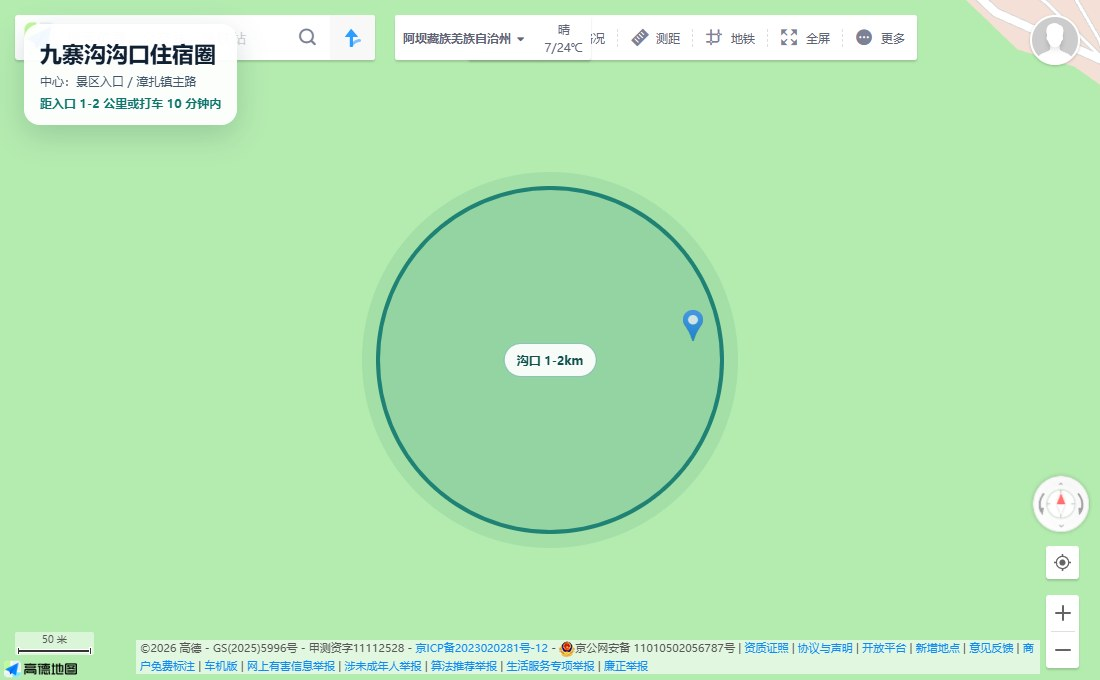
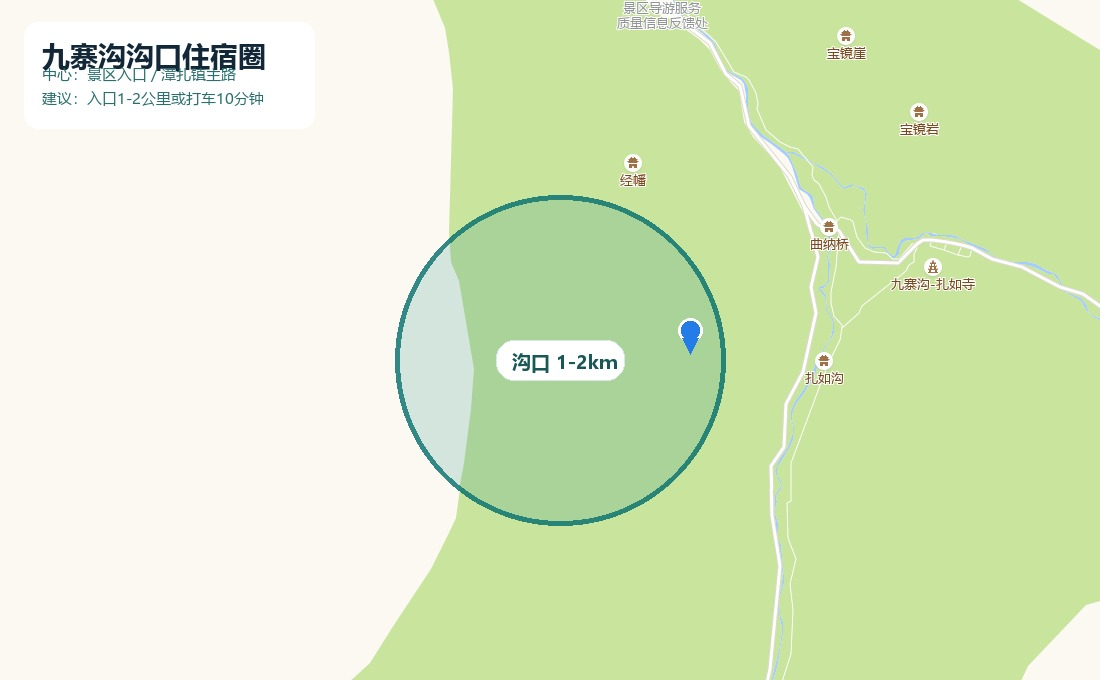
Refine Jiuzhaigou train routing and hotel maps

diff --git a/routes/jiuzhaigou-7days.html b/routes/jiuzhaigou-7days.html
@@ -664,7 +664,7 @@
 }
 .ticket-table {
   display:grid;
-  grid-template-columns:112px 1.2fr 1.1fr 1.1fr 1.05fr 1.15fr 96px 1.35fr;
+  grid-template-columns:92px 1.15fr 1fr 1fr 1fr 1.12fr 78px 1.18fr 1.25fr;
   gap:1px;
   overflow:auto;
   border:1px solid var(--line);
@@ -822,6 +822,7 @@
       <p><b>不吃辣提醒：</b>两条线都默认按清淡、不辣、不红油、不花椒来安排。</p>
     </article>
   </div>
+  <div class="notice"><b>交通结论：</b>如果能买到7月15日或7月16日晚上出发、次日上午到成都东的动卧，这是当前最贴合偏好的方案；如果只能买到普通火车次日傍晚到成都西，就不要硬接原D2黄龙，必须顺延或删减。</div>
 </section>
 
 <section class="wrap" id="arrival-choice">
@@ -896,14 +897,51 @@
     <h3>7月13日—7月17日出发日怎么选？</h3>
     <p class="lead">本表按本次对12306公开查询接口能看到的信息整理；余票会变化，最终以12306付款页为准。早上出发、凌晨出发不优先。</p>
     <div class="ticket-table">
-      <div class="head">日期</div><div class="head">下午/晚上火车</div><div class="head">卧铺/动卧</div><div class="head">到达成都时间</div><div class="head">能否接D2黄龙</div><div class="head">参考价格</div><div class="head">推荐</div><div class="head">备注</div>
-      <div>7月13日</div><div>Z586：广州北约22:41 → 成都西18:42+1</div><div>普通卧铺可重点查；动卧需实时核</div><div>次日傍晚成都西</div><div>不能硬接，需住成都休息</div><div>Z586参考：硬座/无座约201，硬卧约343，软卧约613</div><div>中等</div><div>省钱但慢；九寨沟行程顺延或删减草原线/二进沟</div>
-      <div>7月14日</div><div>Z586同样重点查广州北晚发</div><div>普通卧铺优先；动卧需12306实时核</div><div>次日傍晚成都西</div><div>不能硬接，需住成都休息</div><div>同车次价格通常相近，以付款页为准</div><div>中等</div><div>适合不赶第一天景区、愿意车上睡的人</div>
-      <div>7月15日</div><div>D848/D864：广州南约19:01/19:11 → 成都东08:02/08:07+1；Z586也可查</div><div>夜间动卧重点推荐</div><div>次日上午成都东</div><div>理论可接，但会累；太累就成都休整一天</div><div>D848约578/670/1190；D864约581/910；以12306为准</div><div>高</div><div>最贴合“晚上出发、车上睡、到成都东”的偏好</div>
-      <div>7月16日</div><div>D848/D864同样重点查；Z586可备选</div><div>夜间动卧重点推荐</div><div>次日上午成都东</div><div>理论可接，但建议留体力</div><div>价格参考同上，以12306为准</div><div>高</div><div>如果能买动卧，是本段最顺选择之一</div>
-      <div>7月17日</div><div>广州南动卧需重点复核；Z586广州北晚发可查</div><div>卧铺/动卧都需实时看余票</div><div>动卧次早成都东；Z586次日傍晚成都西</div><div>动卧可考虑接；Z586不能接</div><div>按12306付款页</div><div>中等</div><div>若只有Z586，建议把黄龙/九寨沟整体顺延</div>
+      <div class="head">日期</div><div class="head">下午/晚上火车</div><div class="head">卧铺/动卧</div><div class="head">到达成都时间</div><div class="head">能否接D2黄龙</div><div class="head">参考价格</div><div class="head">推荐</div><div class="head">备注</div><div class="head">旅游管家建议</div>
+      <div>7月13日</div><div>Z586：广州北约22:41 → 成都西18:42+1</div><div>普通卧铺可重点查；动卧需实时核</div><div>次日傍晚成都西</div><div>不能硬接，需住成都休息</div><div>Z586参考：硬座/无座约201，硬卧约343，软卧约613</div><div>中等</div><div>省钱但慢；九寨沟行程顺延或删减草原线/二进沟</div><div>如果只有 Z586，适合省钱但要顺延行程。</div>
+      <div>7月14日</div><div>Z586同样重点查广州北晚发</div><div>普通卧铺优先；动卧需12306实时核</div><div>次日傍晚成都西</div><div>不能硬接，需住成都休息</div><div>同车次价格通常相近，以付款页为准</div><div>中等</div><div>适合不赶第一天景区、愿意车上睡的人</div><div>普通卧铺可查，但不适合硬接黄龙。</div>
+      <div>7月15日</div><div>D848/D864：广州南约19:01/19:11 → 成都东08:02/08:07+1；Z586也可查</div><div>夜间动卧重点推荐</div><div>次日上午成都东</div><div>理论可接，但会累；太累就成都休整一天</div><div>D848约578/670/1190；D864约581/910；以12306为准</div><div>高</div><div>最贴合“晚上出发、车上睡、到成都东”的偏好</div><div>如果 D848/D864 有票，优先考虑。</div>
+      <div>7月16日</div><div>D848/D864同样重点查；Z586可备选</div><div>夜间动卧重点推荐</div><div>次日上午成都东</div><div>理论可接，但建议留体力</div><div>价格参考同上，以12306为准</div><div>高</div><div>如果能买动卧，是本段最顺选择之一</div><div>如果 D848/D864 有票，优先考虑。</div>
+      <div>7月17日</div><div>广州南动卧需重点复核；Z586广州北晚发可查</div><div>卧铺/动卧都需实时看余票</div><div>动卧次早成都东；Z586次日傍晚成都西</div><div>动卧可考虑接；Z586不能接</div><div>按12306付款页</div><div>中等</div><div>若只有Z586，建议把黄龙/九寨沟整体顺延</div><div>看是否有动卧；如果只有普通火车，就建议调整行程。</div>
     </div>
   </section>
+
+  <details class="card-pad card" id="late-train-replan">
+    <summary><b>如果普通火车次日傍晚才到成都，7天怎么改？</b></summary>
+    <div class="notice"><b>情况：</b>例如 Z586 广州北晚上出发，次日傍晚到成都西。当天不能继续去黄龙，只能住成都休息。</div>
+    <p><b>调整原则：</b>不硬赶黄龙，不夜间赶山路，优先保留九寨沟和黄龙核心。</p>
+    <div class="grid two">
+      <article class="transport-card">
+        <span class="station-type rail">方案1｜保留九寨沟二进沟，删草原线</span>
+        <ol>
+          <li>D1：夜间火车出发。</li>
+          <li>D2：傍晚到成都西，住成都。</li>
+          <li>D3：成都东 → 黄龙 → 九寨沟沟口。</li>
+          <li>D4：九寨沟一进沟。</li>
+          <li>D5：九寨沟二进沟。</li>
+          <li>D6：九寨沟/松潘/川主寺中转。</li>
+          <li>D7：返成都 → 返程。</li>
+        </ol>
+        <p><b>适合：</b>最重视九寨沟水色的人。</p>
+        <p><b>缺点：</b>删掉若尔盖花湖和黄河九曲第一湾。</p>
+      </article>
+      <article class="transport-card">
+        <span class="station-type rail">方案2｜保留草原线，删二进沟</span>
+        <ol>
+          <li>D1：夜间火车出发。</li>
+          <li>D2：傍晚到成都西，住成都。</li>
+          <li>D3：成都东 → 黄龙 → 九寨沟沟口。</li>
+          <li>D4：九寨沟一日精华。</li>
+          <li>D5：九寨沟 → 花湖/若尔盖。</li>
+          <li>D6：黄河九曲第一湾 → 松潘/川主寺。</li>
+          <li>D7：返成都 → 返程。</li>
+        </ol>
+        <p><b>适合：</b>想看九寨沟水色 + 草原变化的人。</p>
+        <p><b>缺点：</b>九寨沟只能进沟一天，会比较赶。</p>
+      </article>
+    </div>
+    <div class="notice"><b>旅游管家建议：</b>如果普通火车晚到，优先选择方案1，保留九寨沟二进沟。因为这趟旅行核心是九寨沟水色，草原线可以作为预算和体力允许时的加项。</div>
+  </details>
 
   <div class="station-note-grid" style="margin-top:14px">
     <article class="station-card"><span class="station-type air">飞机场</span><h3>广州白云机场</h3><p>民航机场，不是广州白云站。</p></article>
@@ -1149,8 +1187,10 @@
     </details></section>
     <section class="wrap" id="traffic"><div class="section-title"><h2>方案A｜交通接驳卡</h2><span class="lead">每一段写清起点、终点、费用和晚点处理</span></div>
   <div class="grid two">
-    <article class="traffic-card card-pad"><h3>D1｜成都机场 → 酒店</h3><ul><li><b>起点：</b>成都天府/双流机场</li><li><b>终点：</b>成都东站圈、春熙路圈或天府广场圈酒店</li><li><b>交通方式：</b>地铁/机场线/打车，按高德当天推荐</li><li><b>预计耗时：</b>双流进城相对近；天府进城更远，通常要多预留时间</li><li><b>预计费用：</b>地铁较省，打车按高德实时计价</li><li><b>上车点：</b>机场到达层/地铁站</li><li><b>下车点：</b>酒店门口或最近地铁口</li><li><b>预留时间：</b>落地后至少留60-120分钟到酒店</li><li><b>晚点怎么办：</b>直接住成都东站圈，取消夜逛</li></ul><p class="keyword"><span>成都天府机场 成都东站酒店</span><button class="copy-btn" data-copy="成都天府机场 成都东站酒店" type="button">复制</button></p></article>
-    <article class="traffic-card card-pad"><h3>D1｜广州南站 → 成都东站</h3><ul><li><b>起点：</b>广州南站，高铁站</li><li><b>终点：</b>成都东站，高铁站</li><li><b>交通方式：</b>高铁/动车</li><li><b>预计耗时：</b>约7-10小时</li><li><b>预计费用：</b>二等座约666-743元/人，以12306为准</li><li><b>上车点：</b>广州南站对应检票口</li><li><b>下车点：</b>成都东站</li><li><b>预留时间：</b>提前60-90分钟到广州南</li><li><b>晚点怎么办：</b>到成都后只住店，不安排逛街</li></ul><p class="keyword"><span>12306 广州南 成都东</span><button class="copy-btn" data-copy="12306 广州南 成都东" type="button">复制</button></p></article>
+    <article class="traffic-card card-pad"><h3>D1-A｜广州南 → 成都东｜夜间动卧/夕发朝至</h3><ul><li><b>起点：</b>广州南站，高铁/动车站。</li><li><b>终点：</b>成都东站，高铁/动车枢纽。</li><li><b>推荐车次：</b>D848 / D864，具体以12306为准。</li><li><b>推荐出发：</b>晚上约19:00后。</li><li><b>到达：</b>次日上午约08:00左右。</li><li><b>适合：</b>最符合下午/晚上出发、车上睡觉的偏好。</li><li><b>参考价格：</b>D848/D864动卧价格以12306付款页为准。</li><li><b>到达后：</b>如果精神状态好，可接成都东 → 黄龙九寨站；如果太累，就成都休整一天。</li><li><b>风险：</b>卧铺不一定好买，价格可能接近飞机。</li></ul><p class="keyword"><span>12306 广州南 成都东 D848 D864 动卧</span><button class="copy-btn" data-copy="12306 广州南 成都东 D848 D864 动卧" type="button">复制</button></p></article>
+    <article class="traffic-card card-pad"><h3>D1-B｜广州北/广州白云/深圳东 → 成都西/成都东｜普通火车/卧铺</h3><ul><li><b>起点：</b>广州北站 / 广州白云站 / 深圳东站，按12306实际车次。</li><li><b>终点：</b>成都西站或成都东站。</li><li><b>重点车次：</b>Z586 可关注，最终以12306为准。</li><li><b>推荐出发：</b>晚上。</li><li><b>到达：</b>次日下午或傍晚。</li><li><b>参考价格：</b>硬座/无座约201元、硬卧约343元、软卧约613元，以12306付款页为准。</li><li><b>到达后：</b>不能接黄龙，当天只住成都睡觉。</li><li><b>后续处理：</b>九寨沟行程必须顺延，或删掉二进沟/草原线其中一个。</li></ul><p class="keyword"><span>12306 广州北 成都西 Z586 硬卧</span><button class="copy-btn" data-copy="12306 广州北 成都西 Z586 硬卧" type="button">复制</button></p></article>
+    <article class="traffic-card card-pad"><h3>D1-C｜广州白云机场 → 成都天府/双流机场｜飞机</h3><ul><li><b>起点：</b>广州白云机场，民航机场，不是广州白云站。</li><li><b>终点：</b>成都天府机场或成都双流机场。</li><li><b>用户实查：</b>往返约1200元左右，实际按航司/携程/飞猪。</li><li><b>推荐执行：</b>下午/晚上飞成都，到达后直接住酒店睡觉。</li><li><b>当晚安排：</b>不安排夜逛，最多酒店附近清淡晚餐或外卖。</li><li><b>判断：</b>如果卧铺不好买，飞机可能反而更划算。</li><li><b>晚点怎么办：</b>直接住成都东站圈，取消所有夜间安排。</li></ul><p class="keyword"><span>广州白云机场 成都天府机场 成都东站酒店</span><button class="copy-btn" data-copy="广州白云机场 成都天府机场 成都东站酒店" type="button">复制</button></p></article>
+    <article class="traffic-card card-pad"><h3>D1-D｜广州南 → 成都东｜白天高铁</h3><ul><li><b>起点：</b>广州南站，高铁/动车站。</li><li><b>终点：</b>成都东站，高铁/动车枢纽。</li><li><b>定位：</b>备选，不是默认主推。</li><li><b>预计耗时：</b>约7-10小时，车次不同差距较大。</li><li><b>参考价格：</b>二等座约666-743元/人，以12306为准。</li><li><b>为什么降级：</b>价格接近飞机，白天坐7-10小时较累。</li><li><b>什么时候选：</b>机票贵、卧铺买不到、又想价格稳定时选择。</li><li><b>到达后：</b>只住酒店休息，不安排夜逛。</li></ul><p class="keyword"><span>12306 广州南 成都东 高铁</span><button class="copy-btn" data-copy="12306 广州南 成都东 高铁" type="button">复制</button></p></article>
     <article class="traffic-card card-pad"><h3>D2｜成都酒店 → 成都东站</h3><ul><li><b>起点：</b>成都酒店</li><li><b>终点：</b>成都东站</li><li><b>交通方式：</b>住东站圈可步行/短打车；住春熙路/天府广场建议地铁或打车</li><li><b>预计耗时：</b>住东站圈约5-20分钟，市中心圈约25-50分钟</li><li><b>预计费用：</b>约0-70元，以实际为准</li><li><b>预留时间：</b>高铁发车前60-90分钟从酒店出发</li><li><b>晚点怎么办：</b>优先打车；若赶不上，查下一班成都东→黄龙九寨站/松潘站</li></ul><p class="keyword"><span>成都东站 东广场 进站口</span><button class="copy-btn" data-copy="成都东站 东广场 进站口" type="button">复制</button></p></article>
     <article class="traffic-card card-pad"><h3>D2｜成都东 → 黄龙九寨站</h3><ul><li><b>起点：</b>成都东站</li><li><b>终点：</b>黄龙九寨站</li><li><b>交通方式：</b>高铁/动车</li><li><b>预计耗时：</b>最快约1.5-2小时，具体按车次</li><li><b>预计费用：</b>二等座常见约128-205元/人区间，最终以12306付款页为准</li><li><b>上车点：</b>成都东站检票口</li><li><b>下车点：</b>黄龙九寨站</li><li><b>到达后：</b>找黄龙/九寨沟接驳车、拼车或酒店接送</li><li><b>晚点怎么办：</b>晚到则黄龙只看核心或直接去沟口</li></ul><p class="keyword"><span>12306 成都东 黄龙九寨站</span><button class="copy-btn" data-copy="12306 成都东 黄龙九寨站" type="button">复制</button></p></article>
     <article class="traffic-card card-pad"><h3>D2｜黄龙九寨站 → 黄龙景区</h3><ul><li><b>起点：</b>黄龙九寨站</li><li><b>终点：</b>黄龙游客中心/黄龙景区入口</li><li><b>交通方式：</b>景区直通车、接驳车、拼车或包车</li><li><b>预计耗时：</b>约35-60分钟</li><li><b>预计费用：</b>按当日接驳/平台报价</li><li><b>上车点：</b>高铁站出站口接驳点</li><li><b>下车点：</b>黄龙游客中心</li><li><b>预留时间：</b>留30-60分钟等车和换乘</li><li><b>晚点怎么办：</b>只走五彩池核心，减少停留</li></ul><p class="keyword"><span>黄龙九寨站 黄龙游客中心</span><button class="copy-btn" data-copy="黄龙九寨站 黄龙游客中心" type="button">复制</button></p></article>
@@ -1258,7 +1298,7 @@
 </section>
 <section class="wrap" id="budget"><div class="section-title"><h2>预算模块</h2><span class="lead">分方案A和方案B，全部按区间看</span></div>
   <div class="budget-split">
-    <article class="budget-line-card"><h3>方案A｜大交通</h3><ul><li>广州/佛山 → 成都飞机：你实查约1200元左右，实际按航司/携程/飞猪。</li><li>广州南 → 成都东高铁：二等座约666-743元/人，以12306为准。</li><li>成都东 → 黄龙九寨站：二等座常见约128-205元/人区间，以12306付款页为准。</li></ul></article>
+    <article class="budget-line-card"><h3>方案A｜大交通</h3><ul><li><b>飞机：</b>广州/佛山 → 成都飞机，你实查往返约1200元左右，实际按航司/携程/飞猪。</li><li><b>夜间动卧：</b>广州南 → 成都东 D848/D864，动卧价格以12306付款页为准；优点是晚上走、车上睡、次日上午到成都东。</li><li><b>普通火车/卧铺：</b>广州北/广州白云/深圳东 → 成都西/成都东，重点查 Z586 等车次。参考：硬座/无座约201元、硬卧约343元、软卧约613元，以12306付款页为准。注意普通火车到成都较晚，不能硬接黄龙。</li><li><b>白天高铁：</b>广州南 → 成都东高铁，二等座约666-743元/人，以12306为准。价格接近飞机，所以不是默认推荐。</li><li><b>成都东 → 黄龙九寨站：</b>二等座常见约128-205元/人区间，以12306付款页为准。</li></ul></article>
     <article class="budget-line-card"><h3>方案A｜当地接驳</h3><ul><li>成都机场/成都东/酒店之间：地铁更省，打车按高德实时。</li><li>黄龙九寨站 → 黄龙 → 九寨沟沟口：接驳/拼车/包车按当日平台。</li><li>D5-D6草原线：两人约600-1800元浮动，取决于拼车人数、车型和线路。</li></ul></article>
     <article class="budget-line-card"><h3>方案A｜门票观光车</h3><ul><li>九寨沟旺季门票190元/人，观光车90元/人，二进沟需另算。</li><li>黄龙、花湖、黄河九曲第一湾门票/索道/观光车以当期官方或平台为准。</li><li>省钱时优先压非核心项目，不建议压九寨沟一进沟和黄龙核心。</li></ul></article>
     <article class="budget-line-card"><h3>方案A｜住宿</h3><ul><li>成都：东站/春熙路/天府广场，暑期位置好会涨。</li><li>九寨沟沟口：住入口1-2公里或打车10分钟内，旺季上浮明显。</li><li>唐克/若尔盖：住宿条件比成都和沟口弱，优先热水、供暖、评分。</li><li>松潘/川主寺：主路和约车便利优先。</li></ul></article>
